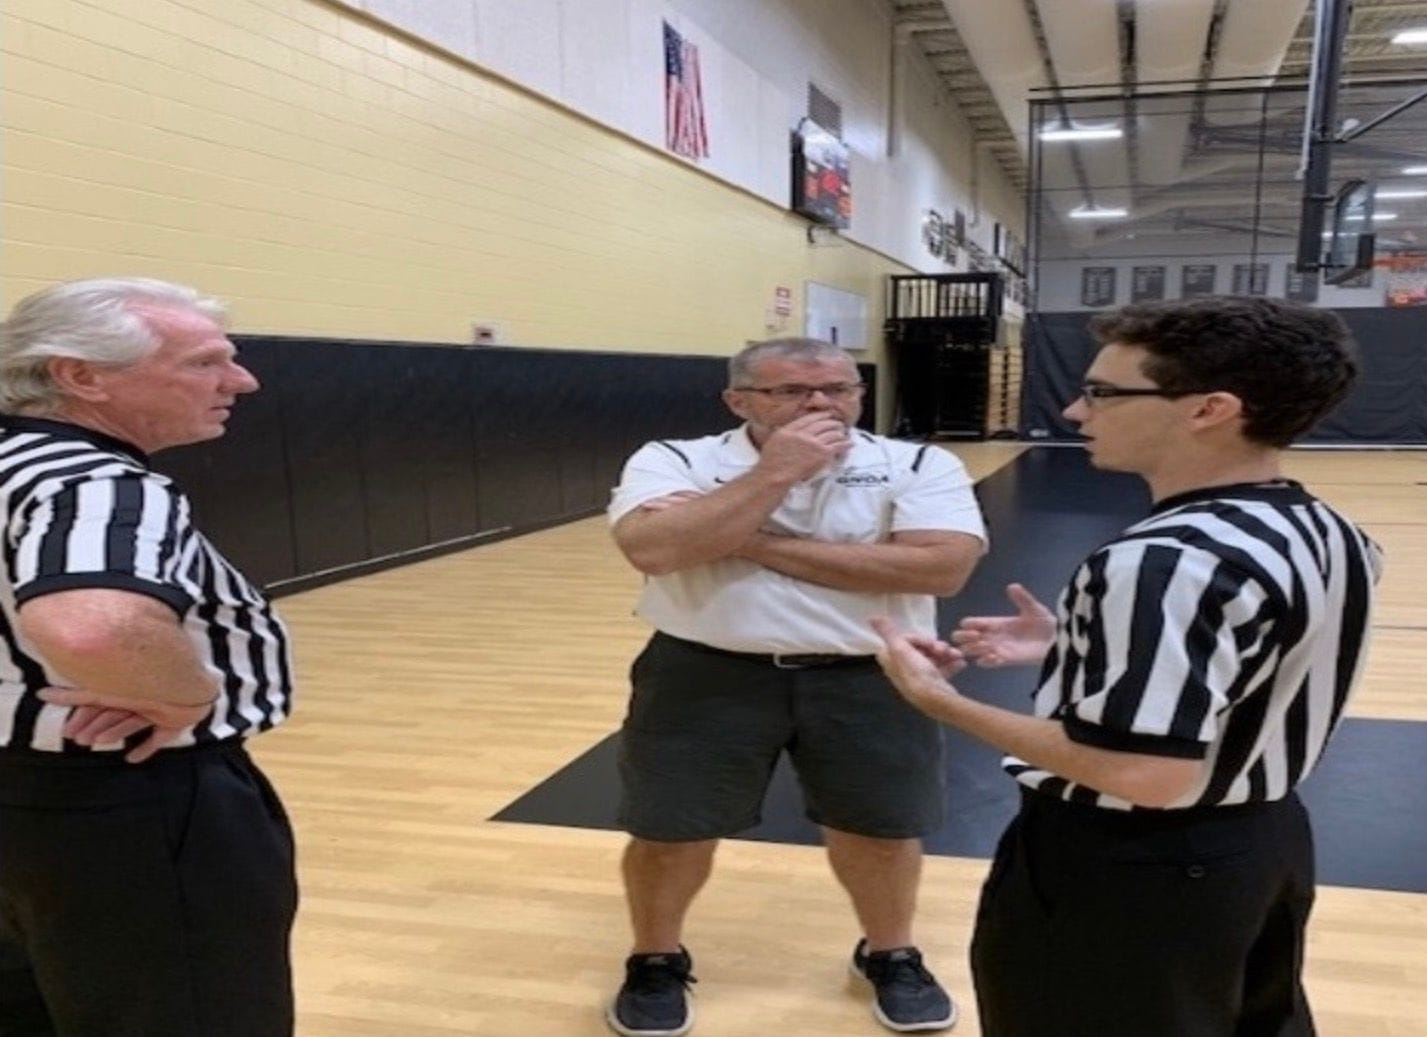
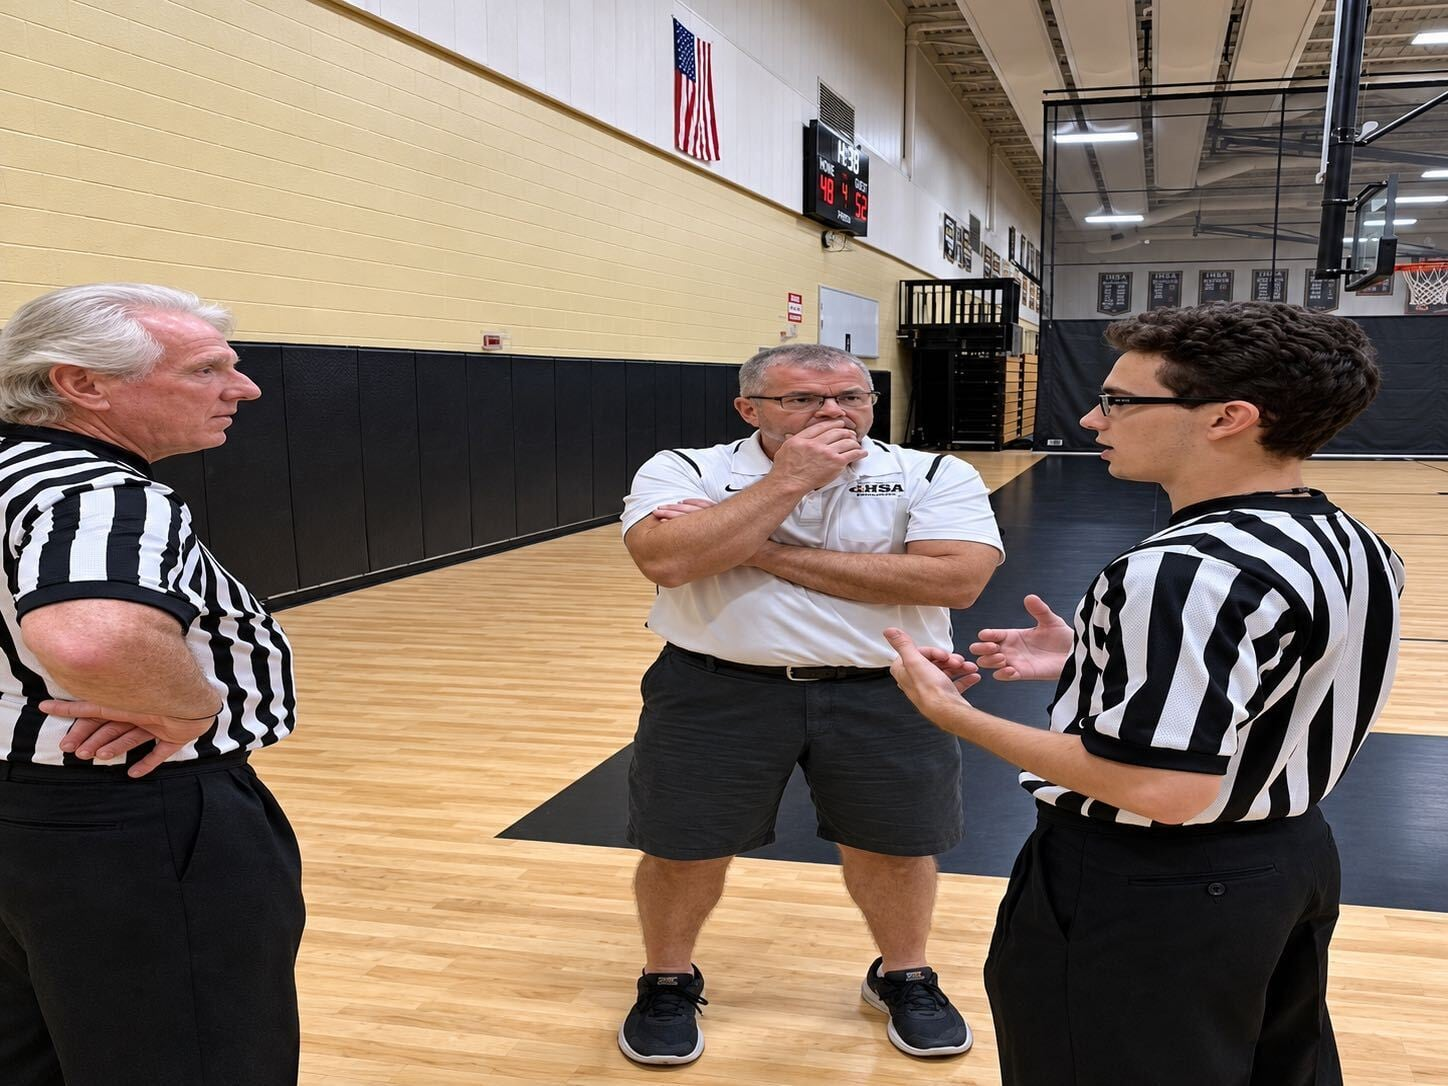
Use the football crew photo in the homepage hero and a sharper Never Officiated photo
The hero shows the whole crew (Kit v1.14, image.fit contain): beside the text on desktop, above it on
tablets and phones. The sharper photo replaces home-never-officiated.jpg, so Home and Basketball both update.

diff --git a/design-kit/kit.css b/design-kit/kit.css
@@ -506,3 +506,13 @@ img.has-focus{object-position:var(--focus)!important}
 @media (min-width:761px) and (max-width:1024px){
   .cta-band .band__body{max-width:52%}
 }
+/* hero--fit: whole photo on the right for large group shots; above the text on tablets and phones (v1.14) */
+.hero--fit .hero__media{bottom:auto;top:clamp(56px,7vw,96px);width:58%;aspect-ratio:1314/690}
+.hero--fit .hero__media::after{background:linear-gradient(90deg,var(--navy) 0%,rgba(10,35,66,0) 8%)}
+.hero--fit .hero__body{max-width:min(440px,34vw)}
+@media (max-width:1024px){
+  .hero--fit .hero__media{position:relative;top:auto;width:100%;z-index:0}
+  .hero--fit .hero__media::after{background:linear-gradient(0deg,var(--navy) 0%,rgba(10,35,66,0) 22%)}
+  .hero--fit .wrap{padding-top:12px}
+  .hero--fit .hero__body{max-width:none}
+}

diff --git a/src/styles/kit.css b/src/styles/kit.css
@@ -630,3 +630,13 @@ img.has-focus{object-position:var(--focus)!important}
 @media (min-width:761px) and (max-width:1024px){
   .cta-band .band__body{max-width:52%}
 }
+/* hero--fit: whole photo on the right for large group shots; above the text on tablets and phones (v1.14) */
+.hero--fit .hero__media{bottom:auto;top:clamp(56px,7vw,96px);width:58%;aspect-ratio:1314/690}
+.hero--fit .hero__media::after{background:linear-gradient(90deg,var(--navy) 0%,rgba(10,35,66,0) 8%)}
+.hero--fit .hero__body{max-width:min(440px,34vw)}
+@media (max-width:1024px){
+  .hero--fit .hero__media{position:relative;top:auto;width:100%;z-index:0}
+  .hero--fit .hero__media::after{background:linear-gradient(0deg,var(--navy) 0%,rgba(10,35,66,0) 22%)}
+  .hero--fit .wrap{padding-top:12px}
+  .hero--fit .hero__body{max-width:none}
+}

diff --git a/design-kit/IMAGE-CHECKLIST.md b/design-kit/IMAGE-CHECKLIST.md
@@ -17,7 +17,7 @@ The draft site uses sample photos for now. Send us the real ones below and we sw
 |---|---|---|---|---|---|---|---|
 | H1 | logo-color.svg | Top of every page | GNOA full color logo | SVG, or PNG 1200 px wide | As designed | Transparent background | Sample in place |
 | H2 | logo-white.svg | Footer | All-white version of the logo | SVG, or PNG 1200 px wide | As designed | Transparent background | Sample in place |
-| H3 | hero-home.jpg | Big photo at the top of the homepage | A GNOA official on the field, Southwest Florida feel | 2000 x 1200 | Landscape 5:3 | Person in the right half; left side is covered by the headline | Sample in place |
+| H3 | home-hero-crew.jpg | Big photo at the top of the homepage | A large GNOA football crew on the field | 1314 x 690 | Wide 2:1 | Whole photo shown; no crop | Supplied real photo in place |
 | H4 | sport-football.jpg | Football tile, top of the Football page | A GNOA official working football | 1600 x 1000 | Landscape 8:5 | Centered, with space around the edges | Supplied real photo in place |
 | H5 | sport-basketball.jpg | Basketball tile and page | A GNOA official working basketball | 1600 x 1000 | Landscape 8:5 | Centered, with space around the edges | Supplied real photo in place |
 | H6 | sport-baseball.jpg | Baseball tile and page | A GNOA umpire working baseball | 1600 x 1000 | Landscape 8:5 | Centered, with space around the edges | Supplied real photo in place |
@@ -185,7 +185,7 @@ The site uses the photos below for now. Add to this list page by page, and send 
 | Page | Section | Photo in use | What we need |
 |---|---|---|---|
 | Home | Come for the Game. Stay for the People. | home-community.jpg | An uncut copy of the group photo; the top of one official's head is outside the frame |
-| Home, Basketball | Never Officiated Before? (Home), Keep Getting Better (Basketball) | home-never-officiated.jpg | A sharper copy; this one is soft and looks like a screenshot |
+| Home, Basketball | Never Officiated Before? (Home), Keep Getting Better (Basketball) | home-never-officiated.jpg | A copy with the GNOA logo on the white polo; this sharper copy shows "GHSA" instead |
 | Basketball | Already an Experienced Basketball Official? | basketball-experienced.jpg | A much larger copy; this one is only 421 px wide |
 | Basketball | The Game Starts to Slow Down | basketball-band.jpg | A sharper, larger copy; this one is 743 px wide and looks stretched |
 | Basketball | What Will I Need? | basketball-equipment.jpg | A sharper copy, or a photo of the basketball uniform and gear |

diff --git a/design-kit/DESIGN.md b/design-kit/DESIGN.md
@@ -1,4 +1,4 @@
-# GNOA Design Kit v1.13
+# GNOA Design Kit v1.14
 
 Source: GNOA homepage mockup v1.0 (Greater Naples Officials Association), plus the Football, Baseball, About, Wrestling (page since removed), Soccer, Softball and Volleyball page handoff packs (v1.2 to v1.5 sections).
 Purpose: the Builder agent reads this file plus kit.css and assembles pages ONLY from the sections below. It does not invent new layouts, colors or fonts. Copy markup from preview.html.
@@ -43,7 +43,7 @@ Fields marked * are required.
 | id | What it is | Fields | Limits |
 |---|---|---|---|
 | site-header | Logo, 5 nav links, ArbiterSports button | from site config | Same on every page. Collapses to a Menu button below 1200px |
-| hero | Large hero, navy with photo on the right | eyebrow (3 words), title (2 lines)*, subhead (short line), lead or 1 to 3 paragraphs (max 35 words each)*, 1 to 2 buttons*, image* | Home and full sport pages only. Title max 8 words |
+| hero | Large hero, navy with photo on the right | eyebrow (3 words), title (2 lines)*, subhead (short line), lead or 1 to 3 paragraphs (max 35 words each)*, 1 to 2 buttons*, image* (image.fit "contain" shows the whole photo for large group shots, v1.14) | Home and full sport pages only. Title max 8 words |
 | sport-strip | Navy band of sport links | 3 to 8 sport names with links* | Home only, directly under hero |
 | icon-strip | Navy band of icon + short label items, not links (v1.2) | 3 to 5 items (icon*, label*) | Directly under a hero. Labels max 5 words |
 | benefits | White cards with an icon | heading*, tagline, intro (max 45 words), 3 to 5 items (icon*, title*, text* or 2 short paragraphs; 5 items added v1.4), align "left" for left-aligned card text | Text max 20 words per paragraph. Title must differ from text |

diff --git a/docs/build-log.md b/docs/build-log.md
@@ -108,3 +108,10 @@ sections with the same words. The Experienced photo moved to the narrow left spo
 and the What Will I Need photo is trimmed to remove a drink can. Keep Getting Better reuses the homepage
 photo. Kit v1.13: split `list.columns`, multi-paragraph `after`, cta-band `image.focus`, and narrower cta-band text on tablets (every page). Open: sharper copies
 of the five soft photos.
+
+## 2026-11-06 Homepage crew hero and sharper Never Officiated photo
+
+The homepage hero now shows the supplied football crew photo in full (`image.fit: "contain"`, Kit v1.14), to
+the right of the text on desktop and above it on tablets and phones. `home-never-officiated.jpg` was replaced
+with the sharper copy, which updates Home and Basketball's Keep Getting Better. That copy's polo logo reads
+"GHSA" where the older copy read GNOA, so a corrected copy is on the better-copies list.
